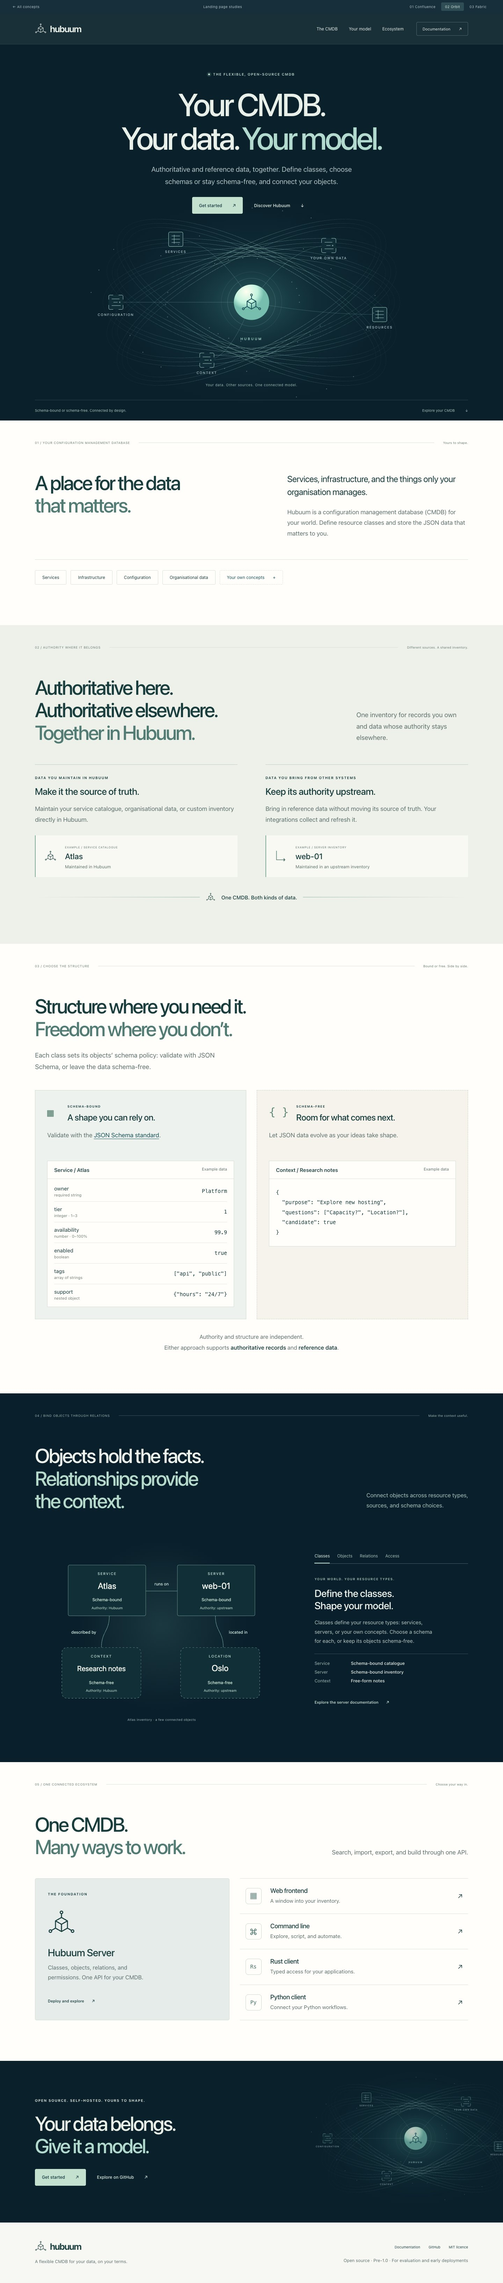
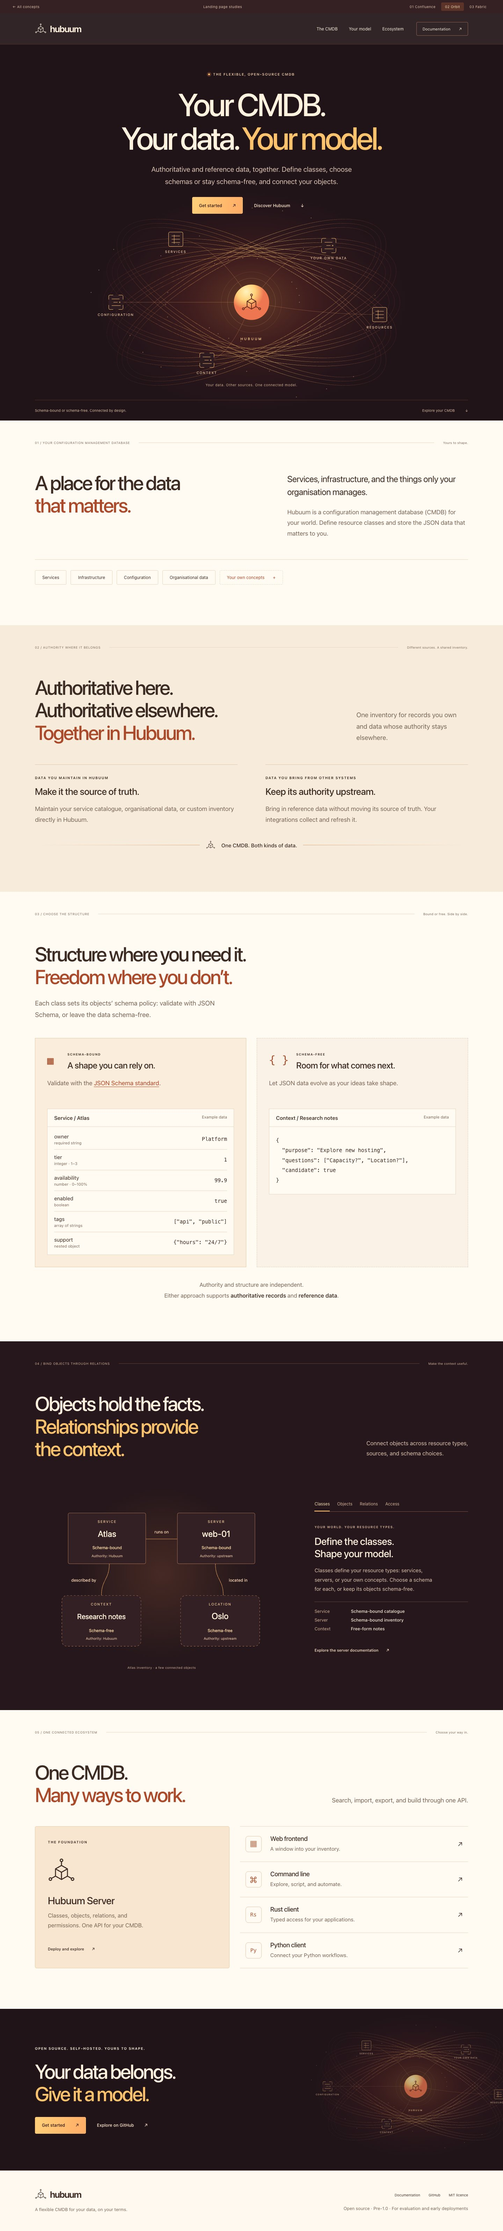
docs: warm the Orbit palette and simplify authority copy

diff --git a/design/assets/site.css b/design/assets/site.css
@@ -11,7 +11,7 @@
   --line: #d6dfd8;
   --dark: #102d35;
   --light-ink: #eff5ee;
-  --mint: #b5dacc;
+  --highlight: #b5dacc;
   color-scheme: light;
   font-family: var(--font);
   color: var(--ink);
@@ -95,12 +95,6 @@ h1 { font-size: clamp(3.4rem, 5.4vw, 5.2rem); line-height: 1.055; }
 .authority-card { border-top: 1px solid #bccfc3; padding-top: 26px; }
 .authority-card h3 { font-size: 27px; margin-top: 15px; }
 .authority-card > p { font-size: calc(14px * var(--body-text-scale)); color: var(--muted); margin-top: 19px; }
-.authority-example { display: flex; align-items: center; gap: 22px; margin-top: 30px; padding: 22px; background: #f7f9f2; border-left: 2px solid #7da797; }
-.example-symbol { width: 40px; display: flex; justify-content: center; flex-shrink: 0; }
-.source-symbol { font-size: 35px; color: #53776e; }
-.authority-example strong { display: block; font-size: 23px; font-weight: 500; margin-block: 6px; }
-.authority-example span:not(.example-symbol) { font-size: calc(10px * var(--body-text-scale)); color: var(--muted); }
-.authority-example .example-label { text-transform: uppercase; letter-spacing: .09em; font-size: 8px !important; }
 .authority-bridge { display: flex; align-items: center; justify-content: center; gap: 18px; margin-top: 40px; }
 .authority-bridge > span { height: 1px; flex: 1; background: linear-gradient(90deg, transparent, #91b0a2); }
 .authority-bridge > span:last-child { transform: rotate(180deg); }
@@ -134,7 +128,7 @@ h1 { font-size: clamp(3.4rem, 5.4vw, 5.2rem); line-height: 1.055; }
 .connection-section { background: var(--dark); color: var(--light-ink); position: relative; }
 .connection-section .section-label { color: #a2bbb6; }
 .connection-section .section-rule { background: #38565b; }
-.connection-section em { color: var(--mint); }
+.connection-section em { color: var(--highlight); }
 .connection-heading { display: flex; align-items: flex-end; justify-content: space-between; gap: 40px; }
 .connection-heading > p { font-size: calc(13px * var(--body-text-scale)); color: #acc6bf; margin-bottom: 5px; }
 .connection-grid { display: grid; grid-template-columns: 1.32fr .8fr; gap: 75px; margin-top: 70px; align-items: center; }
@@ -143,7 +137,7 @@ h1 { font-size: clamp(3.4rem, 5.4vw, 5.2rem); line-height: 1.055; }
 .model-tabs { display: none; gap: 21px; border-bottom: 1px solid #496367; margin-bottom: 32px; }
 .enhanced .model-tabs { display: flex; }
 .model-tabs button { padding: 12px 0; background: none; color: #aac2bc; border: 0; border-bottom: 2px solid transparent; cursor: pointer; font-size: 12px; }
-.model-tabs button[aria-selected="true"] { color: #e3f5e9; border-color: var(--mint); }
+.model-tabs button[aria-selected="true"] { color: #e3f5e9; border-color: var(--highlight); }
 .model-tabs button:hover { color: white; }
 .model-panel { min-height: 325px; }
 .model-panel .eyebrow { color: #a3c2b6; font-size: 9px; }
@@ -186,38 +180,74 @@ h1 { font-size: clamp(3.4rem, 5.4vw, 5.2rem); line-height: 1.055; }
 .footer-meta { text-align: right; }
 .footer-meta nav { display: flex; justify-content: flex-end; gap: 24px; font-size: 10px; }
 
-/* Orbit: a centred opening gives the constellation the entire stage. */
-.orbit { --dark: #091f2b; }
-.orbit .review-strip { background: #162f3a; color: #b7cacb; }
-.orbit .review-strip nav a[aria-current] { background: #2e4d54; color: #e3f2e8; }
+/* Orbit: ember, gold, and coral around a luminous centre. */
+.orbit {
+  --paper: #fff9f0;
+  --ink: #3c2b23;
+  --muted: #766252;
+  --accent: #af4527;
+  --line: #e6d5c1;
+  --dark: #25171b;
+  --light-ink: #fff2df;
+  --highlight: #ffc36e;
+  --orbit-night: #211419;
+  color: var(--ink);
+  background: var(--paper);
+}
+.orbit :focus-visible { outline-color: #c65a32; }
+.orbit em { color: #ab492b; }
+.orbit .skip-link { color: var(--accent); }
+.orbit .review-strip { background: #352024; color: #e5c7ac; }
+.orbit .review-strip nav a[aria-current] { background: #5b3329; color: #ffe5bd; }
 .orbit .review-strip a:hover { color: white; }
-.orbit .site-header { background: #0a202bed; color: #e9f0e9; border-color: #28414b; }
-.orbit .header-cta { border-color: #4c666b; }
-.orbit .header-cta:hover { background: #1f3e47; }
-.orbit .hero { background: #0a202b; color: #e9f0e9; }
+.orbit .site-header { background: #211419ed; color: var(--light-ink); border-color: #51322e; }
+.orbit .header-cta { border-color: #8d6151; }
+.orbit .header-cta:hover { background: #4b2a26; }
+.orbit .hero { background: var(--orbit-night); color: var(--light-ink); }
 .orbit .hero-inner { display: block; text-align: center; padding-block: 77px 0; }
 .orbit .hero-copy { width: 1050px; max-width: 100%; margin: auto; }
-.orbit .hero .eyebrow { justify-content: center; color: #bdd5cc; }
-.orbit .status-dot { background: #c4e0cf; box-shadow: 0 0 0 4px #233e44; }
+.orbit .hero .eyebrow { justify-content: center; color: #e6c5a5; }
+.orbit .status-dot { background: var(--highlight); box-shadow: 0 0 0 4px #523026; }
 .orbit h1 { font-size: clamp(3.6rem, 6.3vw, 6.2rem); }
-.orbit .hero em { color: #b3dace; }
-.orbit .hero-description { color: #b1c4c6; max-width: 620px; margin: 25px auto 0; font-size: calc(16px * var(--body-text-scale)); }
+.orbit .hero em, .orbit .closing em { color: var(--highlight); }
+.orbit .hero-description { color: #dcc4b5; max-width: 620px; margin: 25px auto 0; font-size: calc(16px * var(--body-text-scale)); }
 .orbit .hero .actions { justify-content: center; margin-top: 27px; }
-.orbit .hero .button.primary { background: #c3e1ce; color: #173941; }
-.orbit .hero .button.primary:hover { background: #e0f0da; }
-.orbit .hero .button.quiet { color: #e0ece3; }
-.orbit .hero .button.quiet:hover { background: #17323d; }
+.orbit .button.primary:hover { background: #89351f; }
+.orbit .button.quiet:hover { background: #f7e7d4; }
+.orbit .hero .button.primary, .orbit .closing .button.primary { background: linear-gradient(105deg, #ffd079, #ffac66); color: #321a12; }
+.orbit .hero .button.primary:hover, .orbit .closing .button.primary:hover { background: linear-gradient(105deg, #ffe0a1, #ffc18b); }
+.orbit .hero .button.quiet, .orbit .closing .button.quiet { color: #ffe6ce; }
+.orbit .hero .button.quiet:hover, .orbit .closing .button.quiet:hover { background: #4b2a26; }
 .orbit .hero-art { position: relative; width: 1200px; max-width: 110%; left: 50%; right: auto; top: auto; transform: translateX(-50%); margin-top: -73px; }
-.orbit .hero-art figcaption { margin-top: -96px; padding-bottom: 37px; color: #a1bfb9; }
-.orbit .hero-foot { color: #b0c6c1; border-color: #2b4550; }
+.orbit .hero-art figcaption { margin-top: -96px; padding-bottom: 37px; color: #d7b496; }
+.orbit .hero-foot { color: #dec0a6; border-color: #51322e; }
 .orbit .hero-foot a:hover { color: white; }
-.orbit .closing { background: #0a202b; color: #eaf1e8; }
-.orbit .closing em { color: #b3dace; }
+.orbit .introduction, .orbit .structure-section, .orbit .ecosystem-section { background: #fffaf2; }
+.orbit .section-label, .orbit .record-example dt span { color: #786453; }
+.orbit .authority-section { background: #f7ecdc; }
+.orbit .authority-card { border-color: #ddc4ad; }
+.orbit .authority-bridge > span { background: linear-gradient(90deg, transparent, #d9a47a); }
+.orbit .schema-card { background: #faeddb; border-color: #e6c9a9; }
+.orbit .schema-free { background: #fbf2e7; border-color: #ddc8b4; }
+.orbit .schema-glyph { color: #a64e2d; }
+.orbit .record-example { background: #fffaf2; border-color: #e8d6c2; }
+.orbit .record-title, .orbit .record-example dl > div { border-bottom-color: var(--line); }
+.orbit .connection-section .section-label, .orbit .figure-caption,
+.orbit .model-tabs button, .orbit .model-panel .eyebrow, .orbit .example-detail span { color: #d9b69e; }
+.orbit .connection-section .section-rule { background: #624238; }
+.orbit .connection-section em { color: var(--highlight); }
+.orbit .connection-heading > p, .orbit .model-panel > p { color: #dfc5b1; }
+.orbit .model-tabs { border-color: #795041; }
+.orbit .model-tabs button[aria-selected="true"] { color: #ffe5bc; border-color: var(--highlight); }
+.orbit .model-tabs button:hover { color: white; }
+.orbit .example-detail { border-color: #624238; }
+.orbit .model-story > .text-link { color: #ffe6ca; }
+.orbit .ecosystem-server { background: #f8e6d0; border-color: #eacba8; }
+.orbit .ecosystem-server:hover { background: #f3dabd; }
+.orbit .ecosystem-tools > a:hover { background: #fcf0e0; }
+.orbit .tool-icon { border-color: #e3c7ac; color: #aa5432; }
+.orbit .closing { background: var(--orbit-night); color: var(--light-ink); }
 .orbit .closing-art { top: 10px; width: 780px; right: -240px; opacity: .75; }
-.orbit .closing .button.primary { color: #173941; background: #c3e1ce; }
-.orbit .closing .button.quiet { color: #d8e8de; }
-.orbit .closing .button.quiet:hover { background: #17323d; }
-.orbit .ecosystem-server { background: #e5ecea; }
 
 /* Fabric: editorial type and faint construction lines express structure. */
 .fabric { --paper: #f5f2eb; --ink: #283e43; --muted: #616d6f; --line: #d6dcd5; }
@@ -244,7 +274,7 @@ h1 { font-size: clamp(3.4rem, 5.4vw, 5.2rem); line-height: 1.055; }
 .concept-card:hover { transform: translateY(-5px); box-shadow: 0 16px 35px #193c3d0c; }
 .concept-art { height: 300px; overflow: hidden; background: #edf2eb; }
 .concept-art img { width: 100%; height: 100%; object-fit: cover; }
-.concept-card.orbit .concept-art { background: #0a202b; }
+.concept-card.orbit .concept-art { background: var(--orbit-night); }
 .concept-card.orbit .concept-art img { width: 180%; max-width: none; margin-left: -40%; }
 .concept-card.fabric .concept-art { background: #f5f2eb; }
 .concept-card.fabric .concept-art img { transform: scale(1.1); }
@@ -284,7 +314,6 @@ h1 { font-size: clamp(3.4rem, 5.4vw, 5.2rem); line-height: 1.055; }
   .authority-heading > p { max-width: 520px; margin-top: 25px; }
   .authority-grid { gap: 30px; }
   .authority-card h3 { font-size: 24px; }
-  .authority-example { padding: 18px 13px; gap: 12px; }
   .schema-grid { grid-template-columns: repeat(auto-fit, minmax(min(100%, 300px), 1fr)); gap: 20px; }
   .schema-card { padding: 22px; }
   .schema-card-heading { gap: 12px; }
@@ -344,7 +373,6 @@ h1 { font-size: clamp(3.4rem, 5.4vw, 5.2rem); line-height: 1.055; }
   .authority-heading h2 { font-size: clamp(28px, 8.8vw, 36px); }
   .authority-heading > p, .structure-heading > p { font-size: calc(14px * var(--body-text-scale)); }
   .authority-grid, .schema-grid { grid-template-columns: 1fr; gap: 32px; margin-top: 35px; }
-  .authority-example { padding: 20px; margin-top: 23px; }
   .authority-bridge { gap: 10px; }
   .authority-bridge strong { font-size: calc(10px * var(--body-text-scale)); }
   .authority-bridge .brand-mark { width: 23px; }

diff --git a/design/orbit.html b/design/orbit.html
@@ -5,9 +5,9 @@
   <meta name="viewport" content="width=device-width, initial-scale=1">
   <meta name="robots" content="noindex, nofollow">
   <meta name="description" content="Hubuum: a flexible, open-source CMDB for authoritative and reference data, schema-bound or schema-free, connected through relations. Orbit design study.">
-  <meta name="theme-color" content="#174f57">
+  <meta name="theme-color" content="#211419">
   <title>Hubuum — Orbit / Design study 02</title>
-  <link rel="icon" href="assets/favicon.svg" type="image/svg+xml">
+  <link rel="icon" href="assets/favicon-orbit.svg" type="image/svg+xml">
   <link rel="stylesheet" href="assets/site.css">
   <script src="assets/site.js" defer></script>
 </head>
@@ -57,8 +57,8 @@
         <div class="section-label"><span>02 / Authority where it belongs</span><span class="section-rule"></span><span>Different sources. A shared inventory.</span></div>
         <div class="authority-heading"><h2>Authoritative here.<br>Authoritative elsewhere.<br><em>Together in Hubuum.</em></h2><p>One inventory for records you own and data whose authority stays elsewhere.</p></div>
         <div class="authority-grid">
-          <article class="authority-card"><span class="eyebrow">Data you maintain in Hubuum</span><h3>Make it the source of truth.</h3><p>Maintain your service catalogue, organisational data, or custom inventory directly in Hubuum.</p><div class="authority-example"><span class="example-symbol" aria-hidden="true"><svg class="brand-mark" viewBox="-32 -35 64 60" aria-hidden="true"><g transform="translate(0 0) scale(1)" fill="none" stroke="currentColor" stroke-width="2.3" stroke-linecap="round" stroke-linejoin="round"><path d="M-14-10 0-18 14-10 14 7 0 15-14 7Z M-14-10 0-2 14-10 M0-2V15 M0-18V-27 M14 7 23 12 M-14 7-23 12"/><circle cx="0" cy="-30" r="3"/><circle cx="26" cy="14" r="3"/><circle cx="-26" cy="14" r="3"/></g></svg></span><div><span class="example-label">Example / service catalogue</span><strong>Atlas</strong><span>Maintained in Hubuum</span></div></div></article>
-          <article class="authority-card"><span class="eyebrow">Data you bring from other systems</span><h3>Keep its authority upstream.</h3><p>Bring in reference data without moving its source of truth. Your integrations collect and refresh it.</p><div class="authority-example"><span class="example-symbol source-symbol" aria-hidden="true">↳</span><div><span class="example-label">Example / server inventory</span><strong>web-01</strong><span>Maintained in an upstream inventory</span></div></div></article>
+          <article class="authority-card"><span class="eyebrow">Data you maintain in Hubuum</span><h3>Make it the source of truth.</h3><p>Maintain your service catalogue, organisational data, or custom inventory directly in Hubuum.</p></article>
+          <article class="authority-card"><span class="eyebrow">Data you bring from other systems</span><h3>Keep its authority upstream.</h3><p>Bring in reference data without moving its source of truth. Your integrations collect and refresh it.</p></article>
         </div>
         <div class="authority-bridge"><span aria-hidden="true"></span><svg class="brand-mark" viewBox="-32 -35 64 60" aria-hidden="true"><g transform="translate(0 0) scale(1)" fill="none" stroke="currentColor" stroke-width="2.3" stroke-linecap="round" stroke-linejoin="round"><path d="M-14-10 0-18 14-10 14 7 0 15-14 7Z M-14-10 0-2 14-10 M0-2V15 M0-18V-27 M14 7 23 12 M-14 7-23 12"/><circle cx="0" cy="-30" r="3"/><circle cx="26" cy="14" r="3"/><circle cx="-26" cy="14" r="3"/></g></svg><strong>One CMDB. Both kinds of data.</strong><span aria-hidden="true"></span></div>
       </div>
@@ -85,7 +85,7 @@
         <div class="section-label"><span>04 / Bind objects through relations</span><span class="section-rule"></span><span>Make the context useful.</span></div>
         <div class="connection-heading"><h2>Objects hold the facts.<br><em>Relationships provide<br>the context.</em></h2><p>Connect objects across resource types,<br> sources, and schema choices.</p></div>
         <div class="connection-grid">
-          <div class="model-figure"><img src="assets/relationships.svg" loading="lazy" alt="Example: schema-bound service Atlas, authoritative in Hubuum, runs on schema-bound server web-01 from an upstream source. Atlas is described by schema-free research notes owned in Hubuum. The server is located in Oslo, represented by schema-free reference data from upstream."><span class="figure-caption">Atlas inventory · a few connected objects</span></div>
+          <div class="model-figure"><img src="assets/relationships-orbit.svg" loading="lazy" alt="Example: schema-bound service Atlas, authoritative in Hubuum, runs on schema-bound server web-01 from an upstream source. Atlas is described by schema-free research notes owned in Hubuum. The server is located in Oslo, represented by schema-free reference data from upstream."><span class="figure-caption">Atlas inventory · a few connected objects</span></div>
           <div class="model-story">
             <div class="model-tabs" role="tablist" aria-label="Explore the model">
               <button type="button" id="tab-classes" role="tab" aria-controls="panel-classes" aria-selected="true">Classes</button>

diff --git a/design/confluence.html b/design/confluence.html
@@ -57,8 +57,8 @@
         <div class="section-label"><span>02 / Authority where it belongs</span><span class="section-rule"></span><span>Different sources. A shared inventory.</span></div>
         <div class="authority-heading"><h2>Authoritative here.<br>Authoritative elsewhere.<br><em>Together in Hubuum.</em></h2><p>One inventory for records you own and data whose authority stays elsewhere.</p></div>
         <div class="authority-grid">
-          <article class="authority-card"><span class="eyebrow">Data you maintain in Hubuum</span><h3>Make it the source of truth.</h3><p>Maintain your service catalogue, organisational data, or custom inventory directly in Hubuum.</p><div class="authority-example"><span class="example-symbol" aria-hidden="true"><svg class="brand-mark" viewBox="-32 -35 64 60" aria-hidden="true"><g transform="translate(0 0) scale(1)" fill="none" stroke="currentColor" stroke-width="2.3" stroke-linecap="round" stroke-linejoin="round"><path d="M-14-10 0-18 14-10 14 7 0 15-14 7Z M-14-10 0-2 14-10 M0-2V15 M0-18V-27 M14 7 23 12 M-14 7-23 12"/><circle cx="0" cy="-30" r="3"/><circle cx="26" cy="14" r="3"/><circle cx="-26" cy="14" r="3"/></g></svg></span><div><span class="example-label">Example / service catalogue</span><strong>Atlas</strong><span>Maintained in Hubuum</span></div></div></article>
-          <article class="authority-card"><span class="eyebrow">Data you bring from other systems</span><h3>Keep its authority upstream.</h3><p>Bring in reference data without moving its source of truth. Your integrations collect and refresh it.</p><div class="authority-example"><span class="example-symbol source-symbol" aria-hidden="true">↳</span><div><span class="example-label">Example / server inventory</span><strong>web-01</strong><span>Maintained in an upstream inventory</span></div></div></article>
+          <article class="authority-card"><span class="eyebrow">Data you maintain in Hubuum</span><h3>Make it the source of truth.</h3><p>Maintain your service catalogue, organisational data, or custom inventory directly in Hubuum.</p></article>
+          <article class="authority-card"><span class="eyebrow">Data you bring from other systems</span><h3>Keep its authority upstream.</h3><p>Bring in reference data without moving its source of truth. Your integrations collect and refresh it.</p></article>
         </div>
         <div class="authority-bridge"><span aria-hidden="true"></span><svg class="brand-mark" viewBox="-32 -35 64 60" aria-hidden="true"><g transform="translate(0 0) scale(1)" fill="none" stroke="currentColor" stroke-width="2.3" stroke-linecap="round" stroke-linejoin="round"><path d="M-14-10 0-18 14-10 14 7 0 15-14 7Z M-14-10 0-2 14-10 M0-2V15 M0-18V-27 M14 7 23 12 M-14 7-23 12"/><circle cx="0" cy="-30" r="3"/><circle cx="26" cy="14" r="3"/><circle cx="-26" cy="14" r="3"/></g></svg><strong>One CMDB. Both kinds of data.</strong><span aria-hidden="true"></span></div>
       </div>

diff --git a/design/fabric.html b/design/fabric.html
@@ -57,8 +57,8 @@
         <div class="section-label"><span>02 / Authority where it belongs</span><span class="section-rule"></span><span>Different sources. A shared inventory.</span></div>
         <div class="authority-heading"><h2>Authoritative here.<br>Authoritative elsewhere.<br><em>Together in Hubuum.</em></h2><p>One inventory for records you own and data whose authority stays elsewhere.</p></div>
         <div class="authority-grid">
-          <article class="authority-card"><span class="eyebrow">Data you maintain in Hubuum</span><h3>Make it the source of truth.</h3><p>Maintain your service catalogue, organisational data, or custom inventory directly in Hubuum.</p><div class="authority-example"><span class="example-symbol" aria-hidden="true"><svg class="brand-mark" viewBox="-32 -35 64 60" aria-hidden="true"><g transform="translate(0 0) scale(1)" fill="none" stroke="currentColor" stroke-width="2.3" stroke-linecap="round" stroke-linejoin="round"><path d="M-14-10 0-18 14-10 14 7 0 15-14 7Z M-14-10 0-2 14-10 M0-2V15 M0-18V-27 M14 7 23 12 M-14 7-23 12"/><circle cx="0" cy="-30" r="3"/><circle cx="26" cy="14" r="3"/><circle cx="-26" cy="14" r="3"/></g></svg></span><div><span class="example-label">Example / service catalogue</span><strong>Atlas</strong><span>Maintained in Hubuum</span></div></div></article>
-          <article class="authority-card"><span class="eyebrow">Data you bring from other systems</span><h3>Keep its authority upstream.</h3><p>Bring in reference data without moving its source of truth. Your integrations collect and refresh it.</p><div class="authority-example"><span class="example-symbol source-symbol" aria-hidden="true">↳</span><div><span class="example-label">Example / server inventory</span><strong>web-01</strong><span>Maintained in an upstream inventory</span></div></div></article>
+          <article class="authority-card"><span class="eyebrow">Data you maintain in Hubuum</span><h3>Make it the source of truth.</h3><p>Maintain your service catalogue, organisational data, or custom inventory directly in Hubuum.</p></article>
+          <article class="authority-card"><span class="eyebrow">Data you bring from other systems</span><h3>Keep its authority upstream.</h3><p>Bring in reference data without moving its source of truth. Your integrations collect and refresh it.</p></article>
         </div>
         <div class="authority-bridge"><span aria-hidden="true"></span><svg class="brand-mark" viewBox="-32 -35 64 60" aria-hidden="true"><g transform="translate(0 0) scale(1)" fill="none" stroke="currentColor" stroke-width="2.3" stroke-linecap="round" stroke-linejoin="round"><path d="M-14-10 0-18 14-10 14 7 0 15-14 7Z M-14-10 0-2 14-10 M0-2V15 M0-18V-27 M14 7 23 12 M-14 7-23 12"/><circle cx="0" cy="-30" r="3"/><circle cx="26" cy="14" r="3"/><circle cx="-26" cy="14" r="3"/></g></svg><strong>One CMDB. Both kinds of data.</strong><span aria-hidden="true"></span></div>
       </div>

diff --git a/design/render.py b/design/render.py
@@ -21,7 +21,7 @@ CONCEPTS = [
     dict(slug="orbit", number="02", name="Orbit", mood="Luminous · precise · centred",
          idea="A luminous hub connects records from different sources. One CMDB at the centre of your world.",
          caption="Your data. Other sources. One connected model.",
-         theme="Midnight blue, luminous mint, and quiet orbital geometry."),
+         theme="Deep ember, luminous gold, orange, and coral orbital geometry."),
     dict(slug="fabric", number="03", name="Fabric", mood="Architectural · layered · open",
          idea="Translucent layers connect defined grids and open records. Structure and freedom, on a common foundation.",
          caption="Structure and freedom. On a common foundation.",
@@ -37,9 +37,8 @@ def svg_start(title, viewbox):
     return f'''<svg xmlns="http://www.w3.org/2000/svg" viewBox="{viewbox}" role="img" aria-labelledby="title"><title id="title">{title}</title>'''
 
 
-def data_node(x, y, structured=True, dark=False, size=1):
+def data_node(x, y, structured=True, size=1, ink="#4b7f80", paper="#f5f8f2"):
     """A compact record motif: a defined grid or an open, variable structure."""
-    ink, paper = ("#a9d6ca", "#112d38") if dark else ("#4b7f80", "#f5f8f2")
     frame = ('<rect x="-24" y="-24" width="48" height="48" rx="5"/>' if structured else
              '<path d="M-24-9V-19Q-24-24-19-24H-9 M9-24H19Q24-24 24-19V-9 M24 9V19Q24 24 19 24H9 M-9 24H-19Q-24 24-24 19V9"/>')
     fields = ('<path d="M-14-11H14 M-14 0H14 M-14 11H14 M-5-15V15"/>' if structured else
@@ -69,21 +68,21 @@ def confluence():
 
 def orbit():
     parts = [svg_start("An illuminated Hubuum CMDB connects structured and free-form records from different sources", "0 0 1400 760"), '''<defs>
-    <radialGradient id="halo"><stop stop-color="#6dcbbc" stop-opacity=".34"/><stop offset=".42" stop-color="#39898c" stop-opacity=".12"/><stop offset="1" stop-color="#164954" stop-opacity="0"/></radialGradient>
-    <radialGradient id="pearl" cx=".35" cy=".2"><stop stop-color="#fffef0"/><stop offset=".65" stop-color="#c2f3de"/><stop offset="1" stop-color="#77beaf"/></radialGradient>
-    <linearGradient id="arc"><stop stop-color="#629fba" stop-opacity=".08"/><stop offset=".5" stop-color="#a8d7cb" stop-opacity=".7"/><stop offset="1" stop-color="#73b7b2" stop-opacity=".08"/></linearGradient>
+    <radialGradient id="halo"><stop stop-color="#ff9d48" stop-opacity=".3"/><stop offset=".42" stop-color="#d44536" stop-opacity=".16"/><stop offset="1" stop-color="#511f25" stop-opacity="0"/></radialGradient>
+    <radialGradient id="pearl" cx=".35" cy=".2"><stop stop-color="#fff3bd"/><stop offset=".52" stop-color="#ffd17a"/><stop offset="1" stop-color="#ee7650"/></radialGradient>
+    <linearGradient id="arc"><stop stop-color="#d45c4a" stop-opacity=".12"/><stop offset=".35" stop-color="#ffb75b" stop-opacity=".65"/><stop offset=".65" stop-color="#ffda83" stop-opacity=".75"/><stop offset="1" stop-color="#e16750" stop-opacity=".18"/></linearGradient>
     </defs><ellipse cx="700" cy="377" rx="520" ry="365" fill="url(#halo)"/>''']
     for rotation in [-27, -14, 0, 14, 27]:
         for i in range(3):
             parts.append(f'<ellipse cx="700" cy="380" rx="{460+i*18}" ry="{153+i*14}" transform="rotate({rotation} 700 380)" fill="none" stroke="url(#arc)" stroke-width=".8"/>')
     for index, (x, y, label) in enumerate([(247, 380, "CONFIGURATION"), (447, 170, "SERVICES"), (958, 191, "YOUR OWN DATA"), (1128, 421, "RESOURCES"), (551, 573, "CONTEXT")]):
-        parts.append(f'<path d="M700 380 Q{(700+x)/2} {y} {x} {y}" fill="none" stroke="#79b0b0" stroke-width="1" opacity=".4"/>' + data_node(x, y, structured=index % 2 == 1, dark=True) + f'<text x="{x}" y="{y+46}" text-anchor="middle" font-size="11" letter-spacing="2.3" fill="#a0b9bd" font-family="system-ui,sans-serif">{label}</text>')
+        parts.append(f'<path d="M700 380 Q{(700+x)/2} {y} {x} {y}" fill="none" stroke="#e39762" stroke-width="1" opacity=".4"/>' + data_node(x, y, structured=index % 2 == 1, ink="#ffc37d", paper="#2f1c20") + f'<text x="{x}" y="{y+46}" text-anchor="middle" font-size="11" letter-spacing="2.3" fill="#ddb798" font-family="system-ui,sans-serif">{label}</text>')
     for i in range(42):
         angle = i * 2.39996
         radius = 160 + (i * 31) % 400
         x, y = 700 + math.cos(angle) * radius, 380 + math.sin(angle) * radius * .66
-        parts.append(f'<circle cx="{x:.2f}" cy="{y:.2f}" r="1.4" fill="#abcbce" opacity=".5"/>')
-    parts.extend(['<circle cx="700" cy="380" r="101" fill="none" stroke="#b4ded4" stroke-opacity=".13"/><circle cx="700" cy="380" r="80" fill="none" stroke="#b4ded4" stroke-opacity=".25"/><circle cx="700" cy="380" r="59" fill="url(#pearl)"/>', mark(700, 387, 1.05, "#174f57"), '<text x="700" y="506" text-anchor="middle" font-family="system-ui,sans-serif" font-size="11" letter-spacing="4" fill="#a6d3ca">HUBUUM</text>', '</svg>'])
+        parts.append(f'<circle cx="{x:.2f}" cy="{y:.2f}" r="1.4" fill="#f4b389" opacity=".5"/>')
+    parts.extend(['<circle cx="700" cy="380" r="101" fill="none" stroke="#ffbe73" stroke-opacity=".13"/><circle cx="700" cy="380" r="80" fill="none" stroke="#ffbe73" stroke-opacity=".25"/><circle cx="700" cy="380" r="59" fill="url(#pearl)"/>', mark(700, 387, 1.05, "#642b1c"), '<text x="700" y="506" text-anchor="middle" font-family="system-ui,sans-serif" font-size="11" letter-spacing="4" fill="#f2c68b">HUBUUM</text>', '</svg>'])
     return "\n".join(parts)
 
 
@@ -105,20 +104,31 @@ def fabric():
     return "\n".join(parts)
 
 
-def story_art():
-    return svg_start("Example CMDB: schema-bound Atlas and web-01 connect to schema-free research notes and Oslo; authority lives in Hubuum or upstream independently of schema choice", "0 0 800 580") + '''
-    <defs><radialGradient id="wash"><stop stop-color="#61988f" stop-opacity=".2"/><stop offset="1" stop-color="#61988f" stop-opacity="0"/></radialGradient></defs>
+def story_art(warm=False):
+    palette = {
+        "wash": "#c97246" if warm else "#61988f",
+        "line": "#de9c63" if warm else "#75a59d",
+        "label": "#e6c4a7" if warm else "#bdd4ce",
+        "panel": "#332025" if warm else "#102f36",
+        "border": "#b67b58" if warm else "#779c95",
+        "kind": "#e4be91" if warm else "#b6cfc9",
+        "title": "#fff1d9" if warm else "#f1f5ee",
+        "schema": "#f2d19f" if warm else "#c2d9cd",
+        "authority": "#cfac92" if warm else "#9fbab4",
+    }
+    return svg_start("Example CMDB: schema-bound Atlas and web-01 connect to schema-free research notes and Oslo; authority lives in Hubuum or upstream independently of schema choice", "0 0 800 580") + string.Template('''
+    <defs><radialGradient id="wash"><stop stop-color="$wash" stop-opacity=".2"/><stop offset="1" stop-color="$wash" stop-opacity="0"/></radialGradient></defs>
     <circle cx="400" cy="280" r="270" fill="url(#wash)"/>
-    <g fill="none" stroke="#75a59d" stroke-width="1.2"><path d="M350 172H450 M235 250C235 300 210 300 210 350 M570 250C570 300 595 300 595 350"/></g>
+    <g fill="none" stroke="$line" stroke-width="1.2"><path d="M350 172H450 M235 250C235 300 210 300 210 350 M570 250C570 300 595 300 595 350"/></g>
     <g font-family="system-ui,sans-serif" text-anchor="middle">
-    <g fill="#bdd4ce" font-size="13"><text x="400" y="154">runs on</text><text x="642" y="307">located in</text><text x="154" y="307">described by</text></g>
-    <g fill="#102f36" stroke="#779c95"><rect x="105" y="90" width="245" height="160" rx="5"/><rect x="450" y="90" width="245" height="160" rx="5"/></g>
-    <g fill="#102f36" stroke="#779c95" stroke-dasharray="5 6"><rect x="85" y="350" width="250" height="160" rx="16"/><rect x="460" y="350" width="250" height="160" rx="16"/></g>
-    <g fill="#b6cfc9" font-size="11" letter-spacing="2"><text x="228" y="121">SERVICE</text><text x="573" y="121">SERVER</text><text x="210" y="382">CONTEXT</text><text x="585" y="382">LOCATION</text></g>
-    <g fill="#f1f5ee" font-size="27"><text x="228" y="165">Atlas</text><text x="573" y="165">web-01</text><text x="210" y="425" font-size="23">Research notes</text><text x="585" y="425">Oslo</text></g>
-    <g fill="#c2d9cd" font-size="13"><text x="228" y="204">Schema-bound</text><text x="573" y="204">Schema-bound</text><text x="210" y="465">Schema-free</text><text x="585" y="465">Schema-free</text></g>
-    <g fill="#9fbab4" font-size="11"><text x="228" y="229">Authority: Hubuum</text><text x="573" y="229">Authority: upstream</text><text x="210" y="490">Authority: Hubuum</text><text x="585" y="490">Authority: upstream</text></g></g>
-    </svg>'''
+    <g fill="$label" font-size="13"><text x="400" y="154">runs on</text><text x="642" y="307">located in</text><text x="154" y="307">described by</text></g>
+    <g fill="$panel" stroke="$border"><rect x="105" y="90" width="245" height="160" rx="5"/><rect x="450" y="90" width="245" height="160" rx="5"/></g>
+    <g fill="$panel" stroke="$border" stroke-dasharray="5 6"><rect x="85" y="350" width="250" height="160" rx="16"/><rect x="460" y="350" width="250" height="160" rx="16"/></g>
+    <g fill="$kind" font-size="11" letter-spacing="2"><text x="228" y="121">SERVICE</text><text x="573" y="121">SERVER</text><text x="210" y="382">CONTEXT</text><text x="585" y="382">LOCATION</text></g>
+    <g fill="$title" font-size="27"><text x="228" y="165">Atlas</text><text x="573" y="165">web-01</text><text x="210" y="425" font-size="23">Research notes</text><text x="585" y="425">Oslo</text></g>
+    <g fill="$schema" font-size="13"><text x="228" y="204">Schema-bound</text><text x="573" y="204">Schema-bound</text><text x="210" y="465">Schema-free</text><text x="585" y="465">Schema-free</text></g>
+    <g fill="$authority" font-size="11"><text x="228" y="229">Authority: Hubuum</text><text x="573" y="229">Authority: upstream</text><text x="210" y="490">Authority: Hubuum</text><text x="585" y="490">Authority: upstream</text></g></g>
+    </svg>''').substitute(palette)
 
 
 def render():
@@ -127,9 +137,15 @@ def render():
     assets = ROOT / "assets"
     for slug, renderer in [("confluence", confluence), ("orbit", orbit), ("fabric", fabric), ("relationships", story_art)]:
         (assets / f"{slug}.svg").write_text(renderer() + "\n")
+    (assets / "relationships-orbit.svg").write_text(story_art(warm=True) + "\n")
+    favicon = (assets / "favicon.svg").read_text()
+    (assets / "favicon-orbit.svg").write_text(
+        favicon.replace("#174f57", "#211419").replace("#e5f2e9", "#ffd079")
+    )
     template = string.Template((ROOT / "page.html.template").read_text())
     symbol = f'<svg class="brand-mark" viewBox="-32 -35 64 60" aria-hidden="true">{mark(0, 0)}</svg>'
     for concept in CONCEPTS:
+        warm = concept["slug"] == "orbit"
         switcher = "".join(
             '<a href="' + c["slug"] + '.html"'
             + (' aria-current="page"' if c == concept else '')
@@ -137,7 +153,10 @@ def render():
             for c in CONCEPTS
         )
         content = template.substitute(**concept, headline=HEADLINE, description=DESCRIPTION,
-                                      symbol=symbol, switcher=switcher)
+                                      symbol=symbol, switcher=switcher,
+                                      theme_color="#211419" if warm else "#174f57",
+                                      favicon="favicon-orbit" if warm else "favicon",
+                                      relationships_art="relationships-orbit" if warm else "relationships")
         (ROOT / f'{concept["slug"]}.html').write_text(content)
     cards = "\n".join(f'''<a class="concept-card {c['slug']}" href="{c['slug']}.html"><div class="concept-art"><img src="assets/{c['slug']}.svg" alt="{escape(c['idea'])}"></div><div class="concept-copy"><span class="eyebrow">{c['number']} / {c['mood']}</span><h2>{c['name']} <span aria-hidden="true">↗</span></h2><p>{c['idea']}</p><span class="text-link">Explore this direction <span aria-hidden="true">→</span></span></div></a>''' for c in CONCEPTS)
     gallery = string.Template((ROOT / "gallery.html.template").read_text()).substitute(cards=cards, symbol=symbol)

diff --git a/design/README.md b/design/README.md
@@ -21,7 +21,7 @@ preview or the screenshots below to see the designs.
 | Study | Direction | Full desktop page | Full mobile page |
 | --- | --- | --- | --- |
 | [01 Confluence](confluence.html) | Fine currents gather at a common centre. Warm white, deep teal, generous space. | [Desktop](previews/confluence-desktop.jpg) | [Mobile](previews/confluence-mobile.jpg) |
-| [02 Orbit](orbit.html) | A luminous hub within a constellation. Midnight blue, mint, a centred opening. | [Desktop](previews/orbit-desktop.jpg) | [Mobile](previews/orbit-mobile.jpg) |
+| [02 Orbit](orbit.html) | A luminous hub within a constellation. Deep ember, gold, orange, and coral, with a centred opening. | [Desktop](previews/orbit-desktop.jpg) | [Mobile](previews/orbit-mobile.jpg) |
 | [03 Fabric](fabric.html) | Connected, translucent planes. An architectural composition with editorial typography. | [Desktop](previews/fabric-desktop.jpg) | [Mobile](previews/fabric-mobile.jpg) |
 
 ![Gallery of the three Hubuum landing page directions](previews/gallery.jpg)
@@ -41,6 +41,8 @@ give the larger text room.
 Each study opens with **Your CMDB. Your data. Your model.** The scrolling story
 introduces the kinds of data you can manage, authoritative records and upstream
 reference data, schema-bound and schema-free classes, relations, and the ecosystem.
+The authority section explains data maintained in Hubuum and data collected from
+upstream systems without named object examples.
 Authority and structure are independent choices: both schema approaches can hold
 either kind of data. The example model illustrates all four combinations.
 The schema-bound Atlas card demonstrates strings, integers, decimal numbers,
@@ -69,11 +71,13 @@ existing documentation entry points and preserve the release-default policy.
 - `assets/site.js` progressively enhances the tabs and entrance effects.
 - `render.py` defines the three concepts and draws their vector imagery.
 
-The system font stack and base teal follow the existing shared documentation
+The system font stack and original teal foundation follow the shared documentation
 theme in `hubuum/.github`, pinned at
-`c026918decd83c681fedf0c4c61c266284ae4020`. These standalone studies do not load
-the documentation layout CSS. Once a direction is chosen, shared brand rules
-can live in that theme, with landing-specific layout in this repository.
+`c026918decd83c681fedf0c4c61c266284ae4020`. Orbit explores a warmer palette throughout
+its page, illustrations, and favicon, using the same layout and illustration
+geometry. These standalone studies do not load the documentation layout CSS.
+Once a direction is chosen, shared brand rules can live in that theme, with
+landing-specific layout in this repository.
 
 Regenerate committed HTML and SVG after editing their source:
 
@@ -84,6 +88,7 @@ python3 design/render.py
 The renderer uses only the Python standard library and requires Python 3.11+.
 Edit the templates, renderer, or shared assets rather than generated HTML/SVG.
 `assets/favicon.svg` is hand-authored; it is not generated by the renderer.
+The renderer derives Orbit's warm favicon from that shared icon.
 The screenshots are browser captures for review, not a generated build input.
 
 ## Scope
